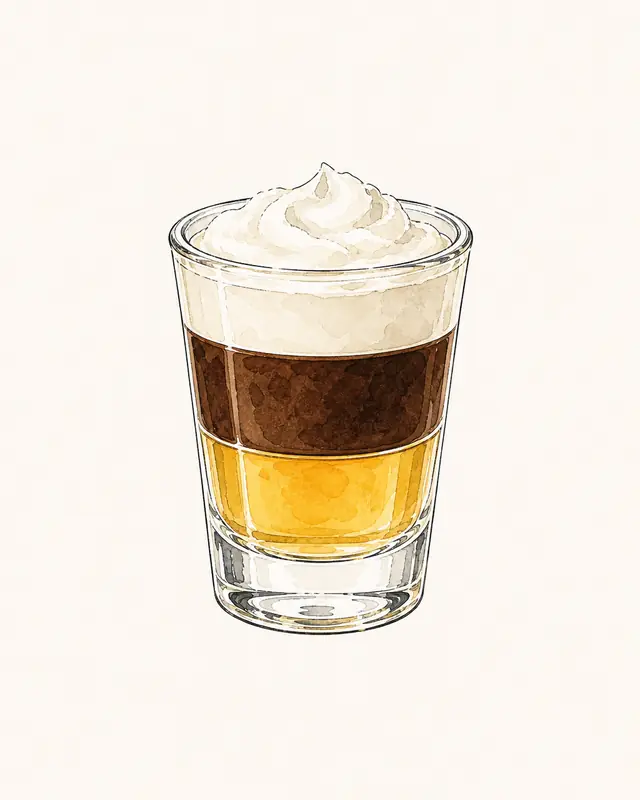
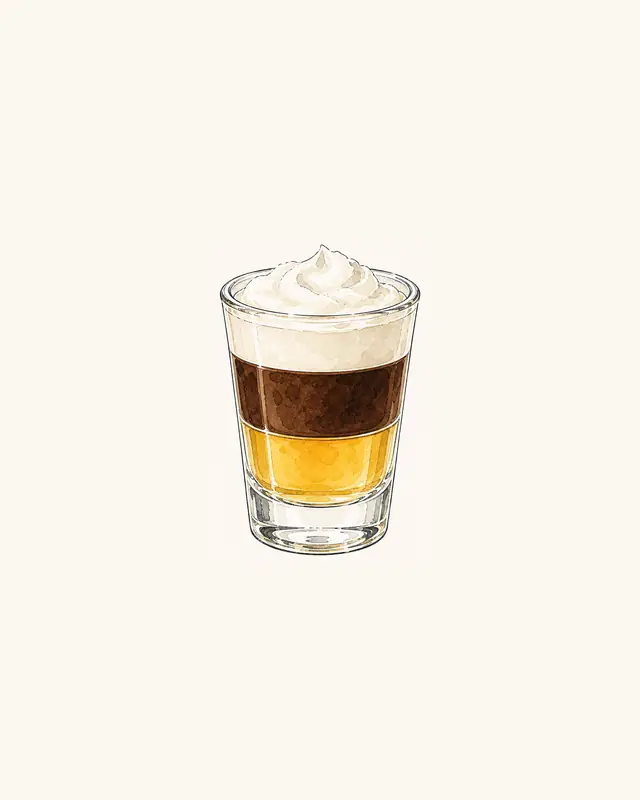
sipdeck: shrink shot cards, richer mini wheel

Changed region(s): [[0.25, 0.1875, 0.75, 0.8125]]

diff --git a/index.html b/index.html
@@ -84,6 +84,7 @@ header.brand .tagline{font:500 .8rem/1.4 var(--sd-font-ui);color:var(--sd-ink-2)
 .wheel-entry:focus-visible{outline:3px solid var(--sd-accent);outline-offset:3px}
 .wheel-entry[hidden]{display:none}
 .wheel-symbol{width:46px;height:46px;flex:0 0 46px;display:block;view-transition-name:wheel-shared}
+.wheel-symbol .wheel-sector:nth-of-type(even){fill:#ece1cd}
 
 .bottom-nav{position:fixed;left:0;right:0;bottom:0;display:flex;background:var(--sd-card);
   border-top:1px solid var(--sd-line);box-shadow:var(--sd-shadow);z-index:10;
@@ -336,9 +337,11 @@ body.wheel-mode .brand,body.wheel-mode .bottom-nav{display:none}
     <a class="wheel-entry" id="wheelEntry" href="#/hjul" hidden>
       <svg class="wheel-symbol" viewBox="0 0 100 100" aria-hidden="true">
         <path class="wheel-sector" d="M50 50L37.32 2.67A49 49 0 0 1 62.68 2.67Z"/><path class="wheel-sector" d="M50 50L62.68 2.67A49 49 0 0 1 84.65 15.35Z"/><path class="wheel-sector" d="M50 50L84.65 15.35A49 49 0 0 1 97.33 37.32Z"/><path class="wheel-sector" d="M50 50L97.33 37.32A49 49 0 0 1 97.33 62.68Z"/><path class="wheel-sector" d="M50 50L97.33 62.68A49 49 0 0 1 84.65 84.65Z"/><path class="wheel-sector" d="M50 50L84.65 84.65A49 49 0 0 1 62.68 97.33Z"/><path class="wheel-sector" d="M50 50L62.68 97.33A49 49 0 0 1 37.32 97.33Z"/><path class="wheel-sector" d="M50 50L37.32 97.33A49 49 0 0 1 15.35 84.65Z"/><path class="wheel-sector" d="M50 50L15.35 84.65A49 49 0 0 1 2.67 62.68Z"/><path class="wheel-sector" d="M50 50L2.67 62.68A49 49 0 0 1 2.67 37.32Z"/><path class="wheel-sector" d="M50 50L2.67 37.32A49 49 0 0 1 15.35 15.35Z"/><path class="wheel-sector" d="M50 50L15.35 15.35A49 49 0 0 1 37.32 2.67Z"/>
+        <circle class="wheel-art-ring" cx="50" cy="26" r="5.7"/><circle class="wheel-art-ring" cx="62" cy="29.22" r="5.7"/><circle class="wheel-art-ring" cx="70.78" cy="38" r="5.7"/><circle class="wheel-art-ring" cx="74" cy="50" r="5.7"/><circle class="wheel-art-ring" cx="70.78" cy="62" r="5.7"/><circle class="wheel-art-ring" cx="62" cy="70.78" r="5.7"/><circle class="wheel-art-ring" cx="50" cy="74" r="5.7"/><circle class="wheel-art-ring" cx="38" cy="70.78" r="5.7"/><circle class="wheel-art-ring" cx="29.22" cy="62" r="5.7"/><circle class="wheel-art-ring" cx="26" cy="50" r="5.7"/><circle class="wheel-art-ring" cx="29.22" cy="38" r="5.7"/><circle class="wheel-art-ring" cx="38" cy="29.22" r="5.7"/>
         <circle class="wheel-rim" cx="50" cy="50" r="49"/>
         <circle class="wheel-hub" cx="50" cy="50" r="10"/>
         <circle class="wheel-hub-dot" cx="50" cy="50" r="3"/>
+        <path fill="#2f6b3f" d="M42 0h16l-8 13z"/>
       </svg>
       <span id="wheelEntryLabel"></span>
     </a>

diff --git a/HANDOFF.md b/HANDOFF.md
@@ -331,3 +331,10 @@ cocktail's name links to its recipe detail (`#/favoriter/<id>` via `.fav-open`),
 result. Verified in a Playwright phone viewport (390x760): live start, two spins, compact
 result on-screen, cocktail link -> detail -> back with state kept, zero console messages.
 app.js is 59,856 bytes; 4,264 tests green (six new source guards).
+
+Shot-card and mini-wheel pass on 2026-07-19: `img/hot-shot.webp` and `img/b-52.webp` were
+regenerated from masters with the glass at 42% of the 800px canvas height (the old cards
+had the shot filling the frame like a tumbler; wheel shots use 60% of their square 512
+canvas). The home-entry mini symbol gained the twelve art rings, a green pointer wedge and
+a stronger alternating sector fill (`#ece1cd`, scoped to `.wheel-symbol`) so it reads as
+the prize wheel rather than a blank disc.